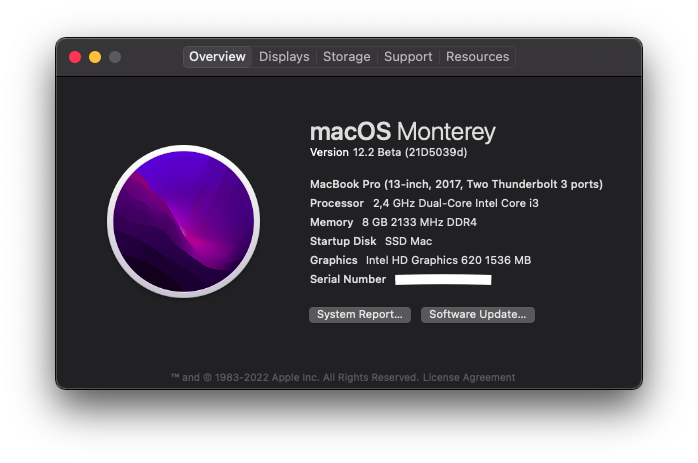
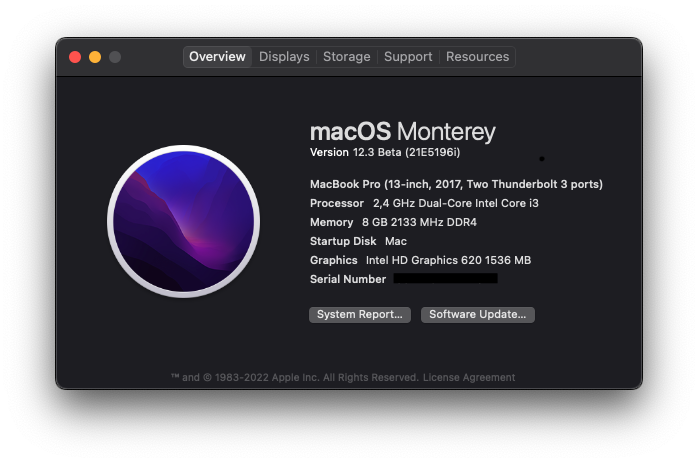
Readme: update to Monterey Beta 3 now

diff --git a/README.md b/README.md
@@ -9,7 +9,7 @@ macOS Monterey
 </p>
 
 * macOS:
-  - Monterey 12.0.2 ✅
+  - Monterey 12.0.3 ✅
 * Windows:
   - Windows 11 ✅
 * Bootloader: OpenCore 0.7.8.
